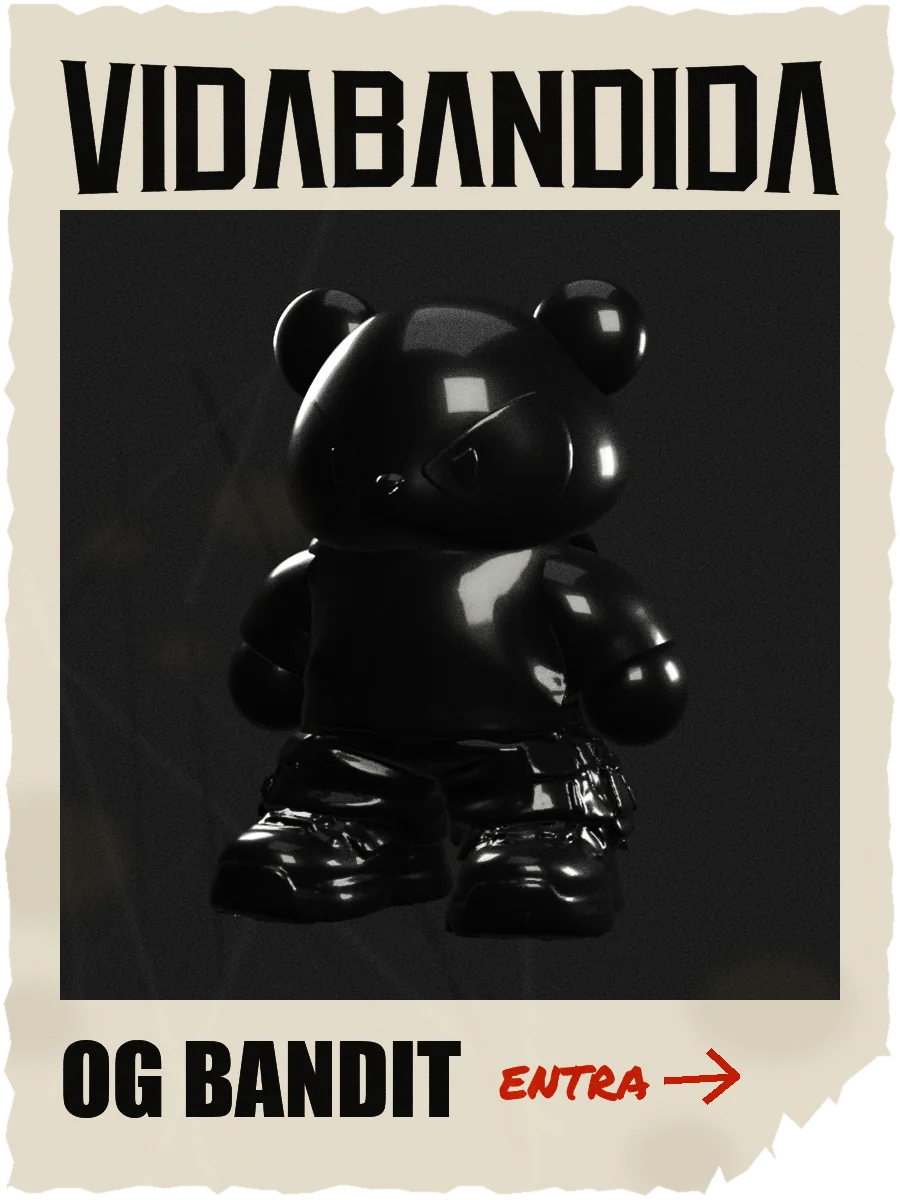
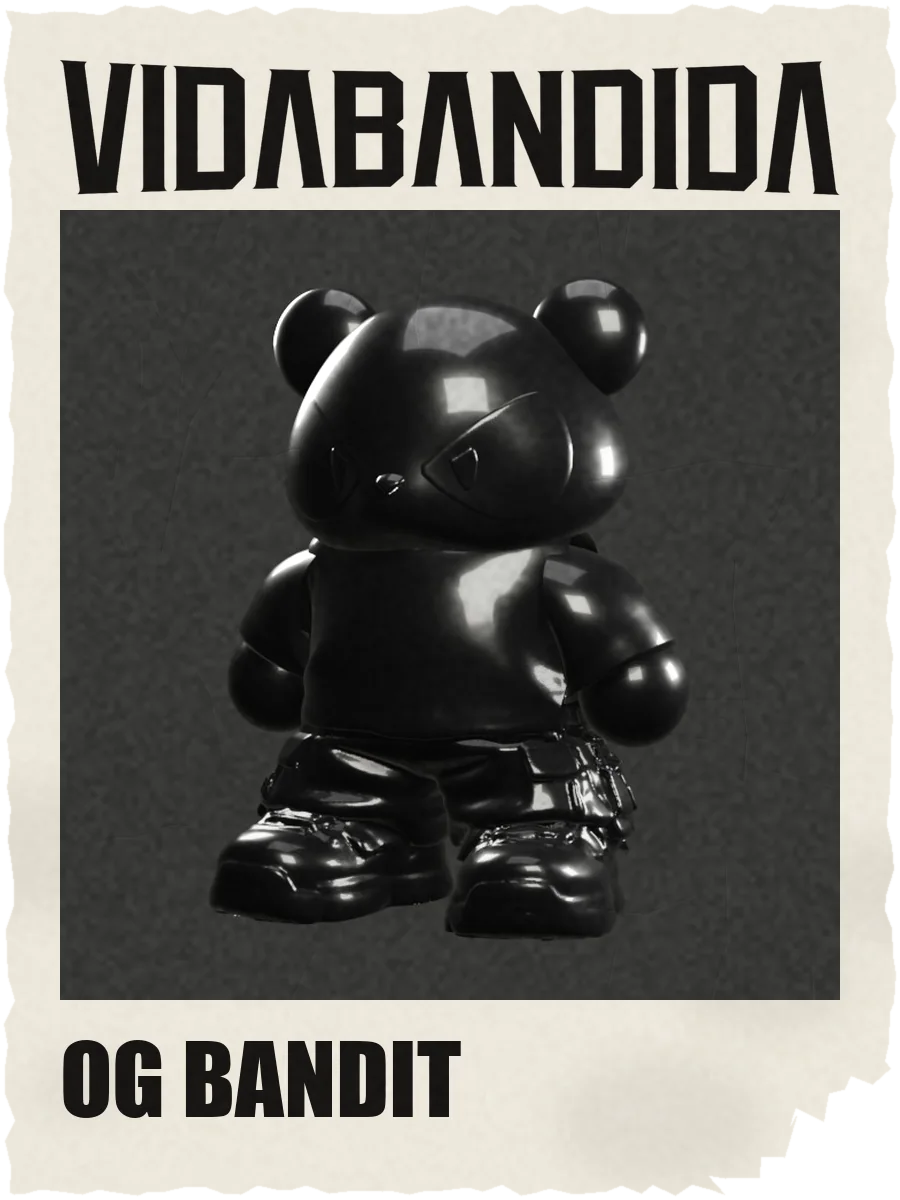
Metro: paste-up sin 'entra', papel pegado con los ladrillos marcados, centrado frente a la puerta; volver atrás te deja sentado en la misma parada; puertas sin isotipo

diff --git a/metro/src/subway/exterior/station.js b/metro/src/subway/exterior/station.js
@@ -710,6 +710,24 @@ export function buildStation(data, mats, registry, loader, gap, content, options
     }
     pgeo.computeVertexNormals();
     posterMat = track(new THREE.MeshStandardMaterial({ color: 0xd8d4cc, roughness: 0.92, alphaTest: 0.5, side: THREE.DoubleSide }));
+    // Wheatpaste: thin paper pressed into the tiles, so the joints and the brick edges read through it.
+    // wallUV (per vertex, set in setViewpoint once the poster is placed) is the wall's own tile space.
+    posterMat.onBeforeCompile = function (sh) {
+      sh.vertexShader = sh.vertexShader
+        .replace('#include <common>', '#include <common>\nattribute vec2 wallUV;\nvarying vec2 vWallUV;')
+        .replace('#include <begin_vertex>', '#include <begin_vertex>\nvWallUV = wallUV;');
+      sh.fragmentShader = sh.fragmentShader
+        .replace('#include <common>', '#include <common>\nvarying vec2 vWallUV;')
+        .replace('#include <map_fragment>', '#include <map_fragment>\n' +
+          // tiles 1/8 x 1/16 of a 1.22 m repeat, every other row offset by half (as tileTexture in materials.js)
+          'vec2 bq = vec2(vWallUV.x * 8.0, vWallUV.y * 16.0);\n' +
+          'bq.x += (1.0 - mod(floor(bq.y), 2.0)) * 0.5;\n' +   // the canvas offsets its odd rows, counted from the top
+          'vec2 bf = fract(bq);\n' +
+          'float gx = min(bf.x, 1.0 - bf.x) * 0.1525, gy = min(bf.y, 1.0 - bf.y) * 0.076;\n' +
+          'float joint = 1.0 - smoothstep(0.002, 0.006, min(gx, gy));\n' +
+          'float rim = (1.0 - smoothstep(0.006, 0.014, min(gx, gy))) - joint;\n' +
+          'diffuseColor.rgb *= 1.0 - 0.32 * joint + 0.06 * rim;');
+    };
     loader.load(data.poster, function (tex) {
       tex.colorSpace = THREE.SRGBColorSpace;
       tex.anisotropy = 8;
@@ -717,11 +735,24 @@ export function buildStation(data, mats, registry, loader, gap, content, options
       posterMat.map = tex;
       posterMat.needsUpdate = true;
     });
+    pgeo.setAttribute('wallUV', new THREE.Float32BufferAttribute(new Float32Array(pos.count * 2), 2));
     sign = new THREE.Group();
     sign.add(new THREE.Mesh(pgeo, posterMat));
     sign.rotation.z = (prand() - 0.5) * 0.09;
     sign.position.set(0, 1.42, S.wallZ + 0.01);
     group.add(sign);
+  }
+  /** Put the poster at x along the wall and work out where each of its points sits in the wall's tile space. */
+  function placePoster(x) {
+    sign.position.x = x;
+    sign.updateMatrix();
+    var mesh = sign.children[0], geo = mesh.geometry, p = geo.attributes.position, w = geo.attributes.wallUV;
+    var v = new THREE.Vector3();
+    for (var i = 0; i < p.count; i++) {
+      v.fromBufferAttribute(p, i).applyMatrix4(sign.matrix);
+      w.setXY(i, (v.x + len / 2) / 1.22, v.y / 1.22);
+    }
+    w.needsUpdate = true;
   }
   /** hover: pointer on the poster (it lifts off the wall a little and brightens); dt for easing. */
   function setSign(hover, dt) {
@@ -757,6 +788,8 @@ export function buildStation(data, mats, registry, loader, gap, content, options
   function setViewpoint(camX, camZ) {
     var boardX = sightAt(camX, camZ, CAR.doorCenterX, boardZ);
     board.position.x = boardX;
+    // The paste-up dead centre in the open doors too, so it's right there to click from the seat.
+    if (sign) placePoster(boardX);
     var clearHalf = B.width / 2 + 0.45;
 
     var windowX = sightAt(camX, camZ, (CAR.window.x0 + CAR.window.x1) / 2, S.wallZ);

diff --git a/metro/src/subway/carriage/doors.js b/metro/src/subway/carriage/doors.js
@@ -16,29 +16,32 @@ export function createDoors(mats, registry) {
   // The VIDABANDIDA isotype painted across both leaves below the windows. Each leaf carries its
   // half, so it splits down the seam as the doors open.
   var TAG = DOOR_TAG;
-  var tagW = CAR.doorWidth * 0.3;
-  var tagH = tagW * (TAG.crop[3] - TAG.crop[1]) / (TAG.crop[2] - TAG.crop[0]);
-  function tagHalf(u0) {
-    var geo = keep(new THREE.PlaneGeometry(tagW / 2, tagH));
-    var uv = geo.attributes.uv;
-    for (var i = 0; i < uv.count; i++) uv.setX(i, u0 + uv.getX(i) * 0.5);
-    return geo;
+  var tagW = 0, tagHalves = null, tagMat = null;
+  if (TAG) {
+    tagW = CAR.doorWidth * 0.3;
+    var tagH = tagW * (TAG.crop[3] - TAG.crop[1]) / (TAG.crop[2] - TAG.crop[0]);
+    function tagHalf(u0) {
+      var geo = keep(new THREE.PlaneGeometry(tagW / 2, tagH));
+      var uv = geo.attributes.uv;
+      for (var i = 0; i < uv.count; i++) uv.setX(i, u0 + uv.getX(i) * 0.5);
+      return geo;
+    }
+    tagHalves = { '-1': tagHalf(0), '1': tagHalf(0.5) };
+    tagMat = new THREE.MeshStandardMaterial({
+      color: 0xf4f1ea, emissive: 0x2a2826, transparent: true, alphaTest: 0.35, roughness: 0.55, opacity: 0
+    });
+    registry.materials.push(tagMat);
+    new THREE.TextureLoader().load(TAG.src, function (tex) {
+      tex.colorSpace = THREE.SRGBColorSpace;
+      tex.anisotropy = 8;
+      tex.repeat.set((TAG.crop[2] - TAG.crop[0]) / TAG.size[0], (TAG.crop[3] - TAG.crop[1]) / TAG.size[1]);
+      tex.offset.set(TAG.crop[0] / TAG.size[0], 1 - TAG.crop[3] / TAG.size[1]);
+      registry.textures.push(tex);
+      tagMat.map = tex;
+      tagMat.opacity = 0.92;
+      tagMat.needsUpdate = true;
+    });
   }
-  var tagHalves = { '-1': tagHalf(0), '1': tagHalf(0.5) };
-  var tagMat = new THREE.MeshStandardMaterial({
-    color: 0xf4f1ea, emissive: 0x2a2826, transparent: true, alphaTest: 0.35, roughness: 0.55, opacity: 0
-  });
-  registry.materials.push(tagMat);
-  new THREE.TextureLoader().load(TAG.src, function (tex) {
-    tex.colorSpace = THREE.SRGBColorSpace;
-    tex.anisotropy = 8;
-    tex.repeat.set((TAG.crop[2] - TAG.crop[0]) / TAG.size[0], (TAG.crop[3] - TAG.crop[1]) / TAG.size[1]);
-    tex.offset.set(TAG.crop[0] / TAG.size[0], 1 - TAG.crop[3] / TAG.size[1]);
-    registry.textures.push(tex);
-    tagMat.map = tex;
-    tagMat.opacity = 0.92;
-    tagMat.needsUpdate = true;
-  });
 
   var h = CAR.doorHeight;
   var win = CAR.doorWindow;
@@ -87,10 +90,13 @@ export function createDoors(mats, registry) {
     kick.position.set(side * 0.01, 0.1, depth + 0.004);
     leaf.add(kick);
 
-    // This leaf's half of the tag, butted against the meeting edge (painted over the rubber).
-    var tag = new THREE.Mesh(tagHalves[side], tagMat);
-    tag.position.set(-side * (leafW / 2 - tagW / 4), 0.62, depth + 0.012);
-    leaf.add(tag);
+    // This leaf's half of the tag, butted against the meeting edge (painted over the rubber). The
+    // VIDABANDIDA doors go bare for now (DOOR_TAG null).
+    if (TAG) {
+      var tag = new THREE.Mesh(tagHalves[side], tagMat);
+      tag.position.set(-side * (leafW / 2 - tagW / 4), 0.62, depth + 0.012);
+      leaf.add(tag);
+    }
     return leaf;
   }
 

diff --git a/metro/src/subway/main.js b/metro/src/subway/main.js
@@ -196,12 +196,15 @@ function start() {
   /** How close to the wall the walk gets before turning (the poster hangs at wallZ). */
   var EXIT_LANE = WORLD.station.wallZ + 2.1;
   var exit = null;
+  var BACK_KEY = 'vidabandida.metro.back';
   function startExit() {
     if (exit || !doorway.ready()) return false;
     var stop = lastState && stations[lastState.stationIndex];
     if (!stop || !stop.href) return false;
     exit = { t0: performance.now(), href: stop.href, gone: false };
     setBusy('exit');
+    // Coming back (the browser's back button) lands you in your seat at this same stop, doors open.
+    try { sessionStorage.setItem(BACK_KEY, String(lastState.stationIndex)); } catch (e) { /* private mode */ }
     return true;
   }
   /** Where the walk is at time t (s): door walk 0..1, lane 0..1, head yaw (right is negative), metres along, dip. */
@@ -225,6 +228,8 @@ function start() {
     if (!e.persisted || !exit) return;
     exit = null;
     setBusy(null);
+    rig.setLane(0, 0);
+    try { sessionStorage.removeItem(BACK_KEY); } catch (err) { /* private mode */ }
   });
   /**
    * Secret doors: the eye of Charles (to Easter Egg) and the word "Criterio" on the motto sign
@@ -771,8 +776,15 @@ function start() {
     // Left and right: the drag itself turns the head (detachLook), as on a desktop.
   }
 
+  // Back from a section page: seated at the stop you got off at, doors open (see startExit).
+  var backAt = null;
+  try {
+    var back = sessionStorage.getItem(BACK_KEY);
+    sessionStorage.removeItem(BACK_KEY);
+    if (back != null && /^\d+$/.test(back) && +back < stations.length) backAt = +back;
+  } catch (e) { /* private mode */ }
   var scroll = createScroll({
-    start: START_CLOSED,
+    start: backAt != null ? backAt + START : START_CLOSED,
     // One step, one station, round the loop either way.
     onStep: rideStep,
     onSwipe: phone ? onSwipe : null,

diff --git a/metro/src/subway/config.js b/metro/src/subway/config.js
@@ -91,7 +91,7 @@ export var DOOR_WALK = 1.6;
 /** The VIDABANDIDA logo (white on transparent), cropped to its lettering. Used on the line map and the station tablets. */
 export var WORDMARK = { src: '/metro/images/web/vb/logo-block.png', crop: [0, 0, 1587, 276], size: [1587, 276] };
 /** The VIDABANDIDA isotype (white on transparent), painted across the door leaves. */
-export var DOOR_TAG = { src: '/og-bandit/vb-isotipo.png', crop: [0, 0, 619, 989], size: [619, 989] };
+export var DOOR_TAG = null;                                              // was the isotype; the doors go bare for now
 
 export var PALETTE = {
   steel: 0xb9bcbf,
